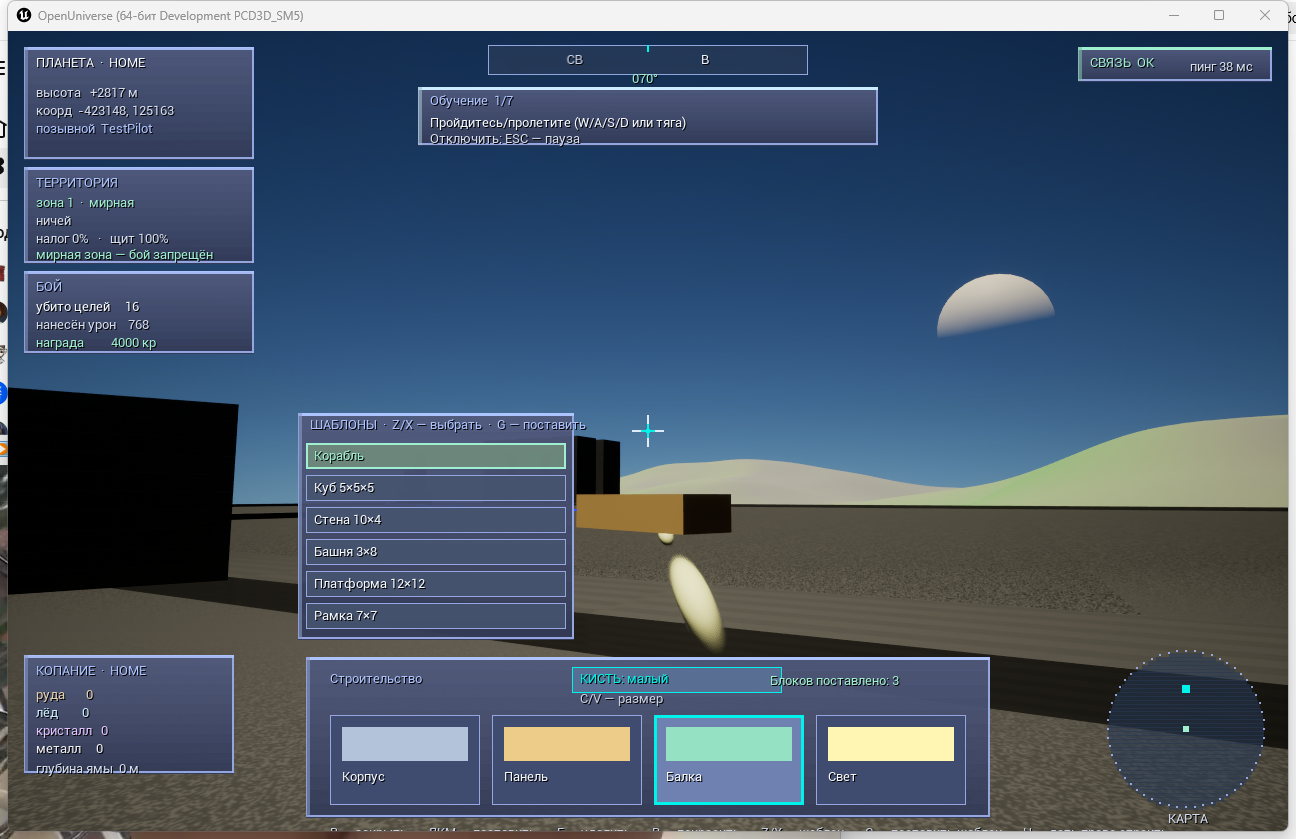
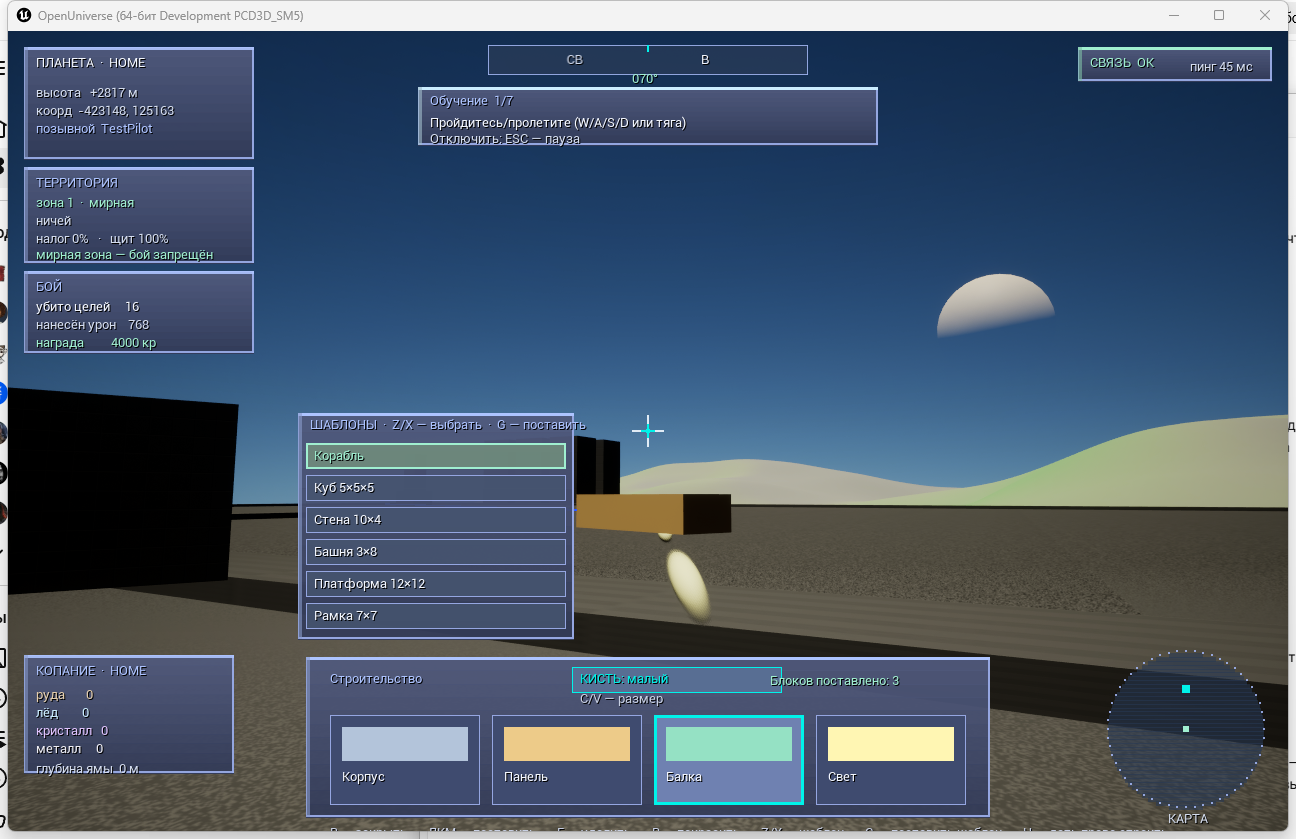
feat(build): ghost outline matches brush size (N x N x N); blocks block the Pawn channel so the character cannot walk through voxels (collide probe)

diff --git a/data.js b/data.js
@@ -102,6 +102,8 @@ window.PLAN = {
         { "title": "Совместное строительство: репликация правок, выдача прав (H) и индикатор прав в UE", "title_en": "Co-op building: edit replication, granting rights (H) and a rights indicator in UE", "status": "done" },
         { "title": "Редактор в игре: ставить / удалять / красить (прицел, Е/R)", "title_en": "In-game editor: place / remove / paint (crosshair, E/R)", "status": "done" },
         { "title": "Призрак блока под прицелом и постановка «куда смотришь» (как в DU)", "title_en": "Ghost block under the crosshair, place where you look (like DU)", "status": "done" },
+        { "title": "Разметка призрака совпадает с размером кисти (призрак охватывает весь куб N×N×N)", "title_en": "The ghost outline matches the brush size (the ghost covers the whole N×N×N cube)", "status": "done" },
+        { "title": "Персонаж не проходит сквозь воксели (блоки блокируют канал Pawn; свип останавливает и скользит)", "title_en": "The character cannot walk through voxels (blocks block the Pawn channel; the sweep stops and slides)", "status": "done" },
         { "title": "Дублирование и шаблоны (blueprints) — библиотека в редакторе (Z/X — выбрать, G — поставить)", "title_en": "Duplication and blueprints — library in the editor (Z/X to pick, G to place)", "status": "done" }
       ]
     },

diff --git a/client/Source/OpenUniverse/OUCharacterPawn.cpp b/client/Source/OpenUniverse/OUCharacterPawn.cpp
@@ -14,6 +14,7 @@
 #include "Components/InputComponent.h"
 #include "Components/PointLightComponent.h"
 #include "Engine/StaticMesh.h"
+#include "Engine/OverlapResult.h"
 #include "Materials/MaterialInterface.h"
 #include "Kismet/GameplayStatics.h"
 #include "Misc/CommandLine.h"
@@ -856,11 +857,20 @@ void AOUCharacterPawn::UpdateBuildGhost()
 	}
 
 	const FVector Pos = VoxelWorld(FVector(Target.X, Target.Y, Target.Z));
-	BuildGhost->SetWorldLocation(Pos);
+	// Разметка совпадает с размером ставящегося вокселя: кисть N×N×N → призрак
+	// охватывает весь куб из N вокселей, а не всегда один. Центр куба — середина
+	// набора ячеек (среднее смещение кисти). Так призрак точно накрывает то, что
+	// реально встанет при клике.
+	const int32 Side = BuildBrushSide();
+	const int32 Half = Side / 2;
+	const double Mean = static_cast<double>(-Half) + static_cast<double>(Side - 1) * 0.5;
+	const FVector CubeCenter = VoxelWorld(FVector(Target.X + Mean, Target.Y + Mean, Target.Z + Mean));
+	BuildGhost->SetWorldLocation(CubeCenter);
 	// Ориентация призрака — как у реального блока (по осям сетки).
 	BuildGhost->SetWorldRotation(BuildGridRotation());
-	// 1.5 м — шаг сетки: призрак точно совпадает с реальным блоком.
-	const float Scale = 150.f / 100.f;
+	// Масштаб: базовый куб движка — 100 см; воксель — 150 см. Для кисти N призрак
+	// охватывает N вокселей: 150*N / 100.
+	const float Scale = (150.f * static_cast<float>(Side)) / 100.f;
 	BuildGhost->SetWorldScale3D(FVector(Scale));
 	// Полупрозрачный цвет выбранной детали (ярче — видно поверх земли).
 	const FLinearColor Col = BuildPartColor(BuildSelection);
@@ -1667,6 +1677,37 @@ void AOUCharacterPawn::Tick(float DeltaSeconds)
 	{
 		ViewYaw += 1.5f * DeltaSeconds;
 	}
+	// Диагностика `-OUWalkInto`: идти строго вперёд (без поворота) — проверка,
+	// что персонаж упирается в постройку и не проходит сквозь неё.
+	const bool bWalkInto = FParse::Param(FCommandLine::Get(), TEXT("OUWalkInto"));
+	// Развернуть курс НА ближайший блок, чтобы упереться именно в него.
+	if (bWalkInto && ServerBlocks.Num() > 0)
+	{
+		AActor* Nearest = nullptr;
+		float Best = TNumericLimits<float>::Max();
+		for (const TPair<FIntVector, TObjectPtr<AOUBuildBlock>>& P : ServerBlocks)
+		{
+			if (!P.Value) { continue; }
+			const float D = FVector::Dist(Pos, P.Value->GetActorLocation());
+			if (D < Best) { Best = D; Nearest = P.Value; }
+		}
+		if (Nearest)
+		{
+			const FVector ToBlock = (Nearest->GetActorLocation() - Pos).GetSafeNormal();
+			FVector TangDir = FVector::VectorPlaneProject(ToBlock, Up).GetSafeNormal();
+			if (!TangDir.IsNearlyZero())
+			{
+				// Yaw в касательной плоскости относительно опорного направления.
+				FVector RefW = FVector::CrossProduct(Up, FVector::UpVector);
+				if (RefW.SizeSquared() < 1e-4f) { RefW = FVector::CrossProduct(Up, FVector::RightVector); }
+				RefW = RefW.GetSafeNormal();
+				const FVector TW = FVector::CrossProduct(RefW, Up).GetSafeNormal();
+				const FVector BW = FVector::CrossProduct(Up, TW).GetSafeNormal();
+				ViewYaw = FMath::Atan2(FVector::DotProduct(TangDir, BW), FVector::DotProduct(TangDir, TW));
+			}
+		}
+	}
+	const float FwdFinal = bWalkInto ? 1.f : FwdInput;
 	// Обучение: первое движение (ходьба).
 	if (FMath::Abs(FwdInput) > 0.1f || FMath::Abs(InputRight) > 0.1f)
 	{
@@ -1689,7 +1730,7 @@ void AOUCharacterPawn::Tick(float DeltaSeconds)
 	const FVector Right = FVector::CrossProduct(Up, Forward).GetSafeNormal();
 
 	// Горизонтальная скорость от ввода (ходьба).
-	const FVector Wish = (Forward * FwdInput + Right * InputRight).GetSafeNormal();
+	const FVector Wish = (Forward * FwdFinal + Right * InputRight).GetSafeNormal();
 	const FVector TargetHV = Wish * WalkSpeed;
 	// Плавно тянем горизонтальную скорость к желаемой.
 	FVector HV(0, 0, 0);
@@ -1737,6 +1778,19 @@ void AOUCharacterPawn::Tick(float DeltaSeconds)
 			if (FVector::DotProduct(N, Up) > 0.5)
 			{
 				bGrounded = true;
+			}
+			// Диагностика `-OUGhostLog`: столкновение с постройкой (персонаж
+			// уперся в воксель и не проходит сквозь него).
+			if (FParse::Param(FCommandLine::Get(), TEXT("OUGhostLog")))
+			{
+				static double LastColLog = 0.0;
+				const double Now2 = World->GetTimeSeconds();
+				if (Now2 - LastColLog > 0.5)
+				{
+					LastColLog = Now2;
+					UE_LOG(LogOUChar, Log, TEXT("Столкновение: блокирует '%s' во времени %.2f"),
+						*Hit.GetActor()->GetName(), Hit.Time);
+				}
 			}
 		}
 	}
@@ -1790,6 +1844,38 @@ void AOUCharacterPawn::Tick(float DeltaSeconds)
 		{
 			LocalTerrainCenter = NewPos;
 			Planet->RebuildLocal(NewPos);
+		}
+	}
+
+	// Диагностика `-OUGhostLog`: раз в секунду — проверка, есть ли блоки рядом с
+	// персонажем (перекрытие по каналу Pawn). Прямое доказательство, что блоки
+	// вообще имеют коллизию и персонаж упирается в них, а не проходит насквозь.
+	if (FParse::Param(FCommandLine::Get(), TEXT("OUGhostLog")))
+	{
+		static double LastProbe = 0.0;
+		const double Now3 = World->GetTimeSeconds();
+		if (Now3 - LastProbe > 2.0)
+		{
+			LastProbe = Now3;
+			FCollisionQueryParams PP(SCENE_QUERY_STAT(OUWallProbe), false, this);
+			PP.bFindInitialOverlaps = true;
+			TArray<FOverlapResult> Overlaps;
+			World->OverlapMultiByChannel(
+				Overlaps, NewPos, FQuat::Identity, ECC_Pawn,
+				FCollisionShape::MakeSphere(3000.f), PP);
+			int32 Blocks = 0;
+			float Nearest = -1.f;
+			for (const FOverlapResult& O : Overlaps)
+			{
+				if (O.GetActor() && O.GetActor()->GetClass()->GetName().Contains(TEXT("BuildBlock")))
+				{
+					++Blocks;
+					const float D = FVector::Dist(NewPos, O.GetActor()->GetActorLocation());
+					if (Nearest < 0.f || D < Nearest) { Nearest = D; }
+				}
+			}
+			UE_LOG(LogOUChar, Log, TEXT("Блоков рядом (коллизия): %d, ближайший %.0f см"),
+				Blocks, Nearest);
 		}
 	}
 

diff --git a/client/Source/OpenUniverse/OUBuildBlock.cpp b/client/Source/OpenUniverse/OUBuildBlock.cpp
@@ -17,6 +17,10 @@ AOUBuildBlock::AOUBuildBlock()
 	BlockMesh->SetCollisionEnabled(ECollisionEnabled::QueryOnly);
 	BlockMesh->SetCollisionResponseToAllChannels(ECR_Ignore);
 	BlockMesh->SetCollisionResponseToChannel(ECC_Visibility, ECR_Block);
+	// И не пропускать персонажа (канал Pawn): иначе игрок проходит сквозь
+	// воксели. Свип персонажа в OUCharacterPawn::Tick идёт по ECC_Pawn — блок
+	// обязан на него отвечать «Block».
+	BlockMesh->SetCollisionResponseToChannel(ECC_Pawn, ECR_Block);
 
 	static ConstructorHelpers::FObjectFinder<UStaticMesh> Cube(
 		TEXT("/Engine/BasicShapes/Cube.Cube"));

diff --git a/plan.md b/plan.md
@@ -129,6 +129,8 @@
 - [x] Совместное строительство: репликация правок, выдача прав (H) и индикатор прав в UE
 - [x] Воксельный редактор в игре: ставить / удалять / красить (прицел, E/R)
 - [x] Призрак блока под прицелом и постановка «куда смотришь» (как в Dual Universe)
+- [x] Разметка призрака совпадает с размером кисти (призрак охватывает весь куб N×N×N)
+- [x] Персонаж не проходит сквозь воксели (блоки блокируют канал Pawn; свип останавливает и скользит)
 - [x] Дублирование и шаблоны (blueprints) — библиотека шаблонов в редакторе (Z/X — выбрать, G — поставить)
 
 ### Фаза 5 — Экономика и производство
